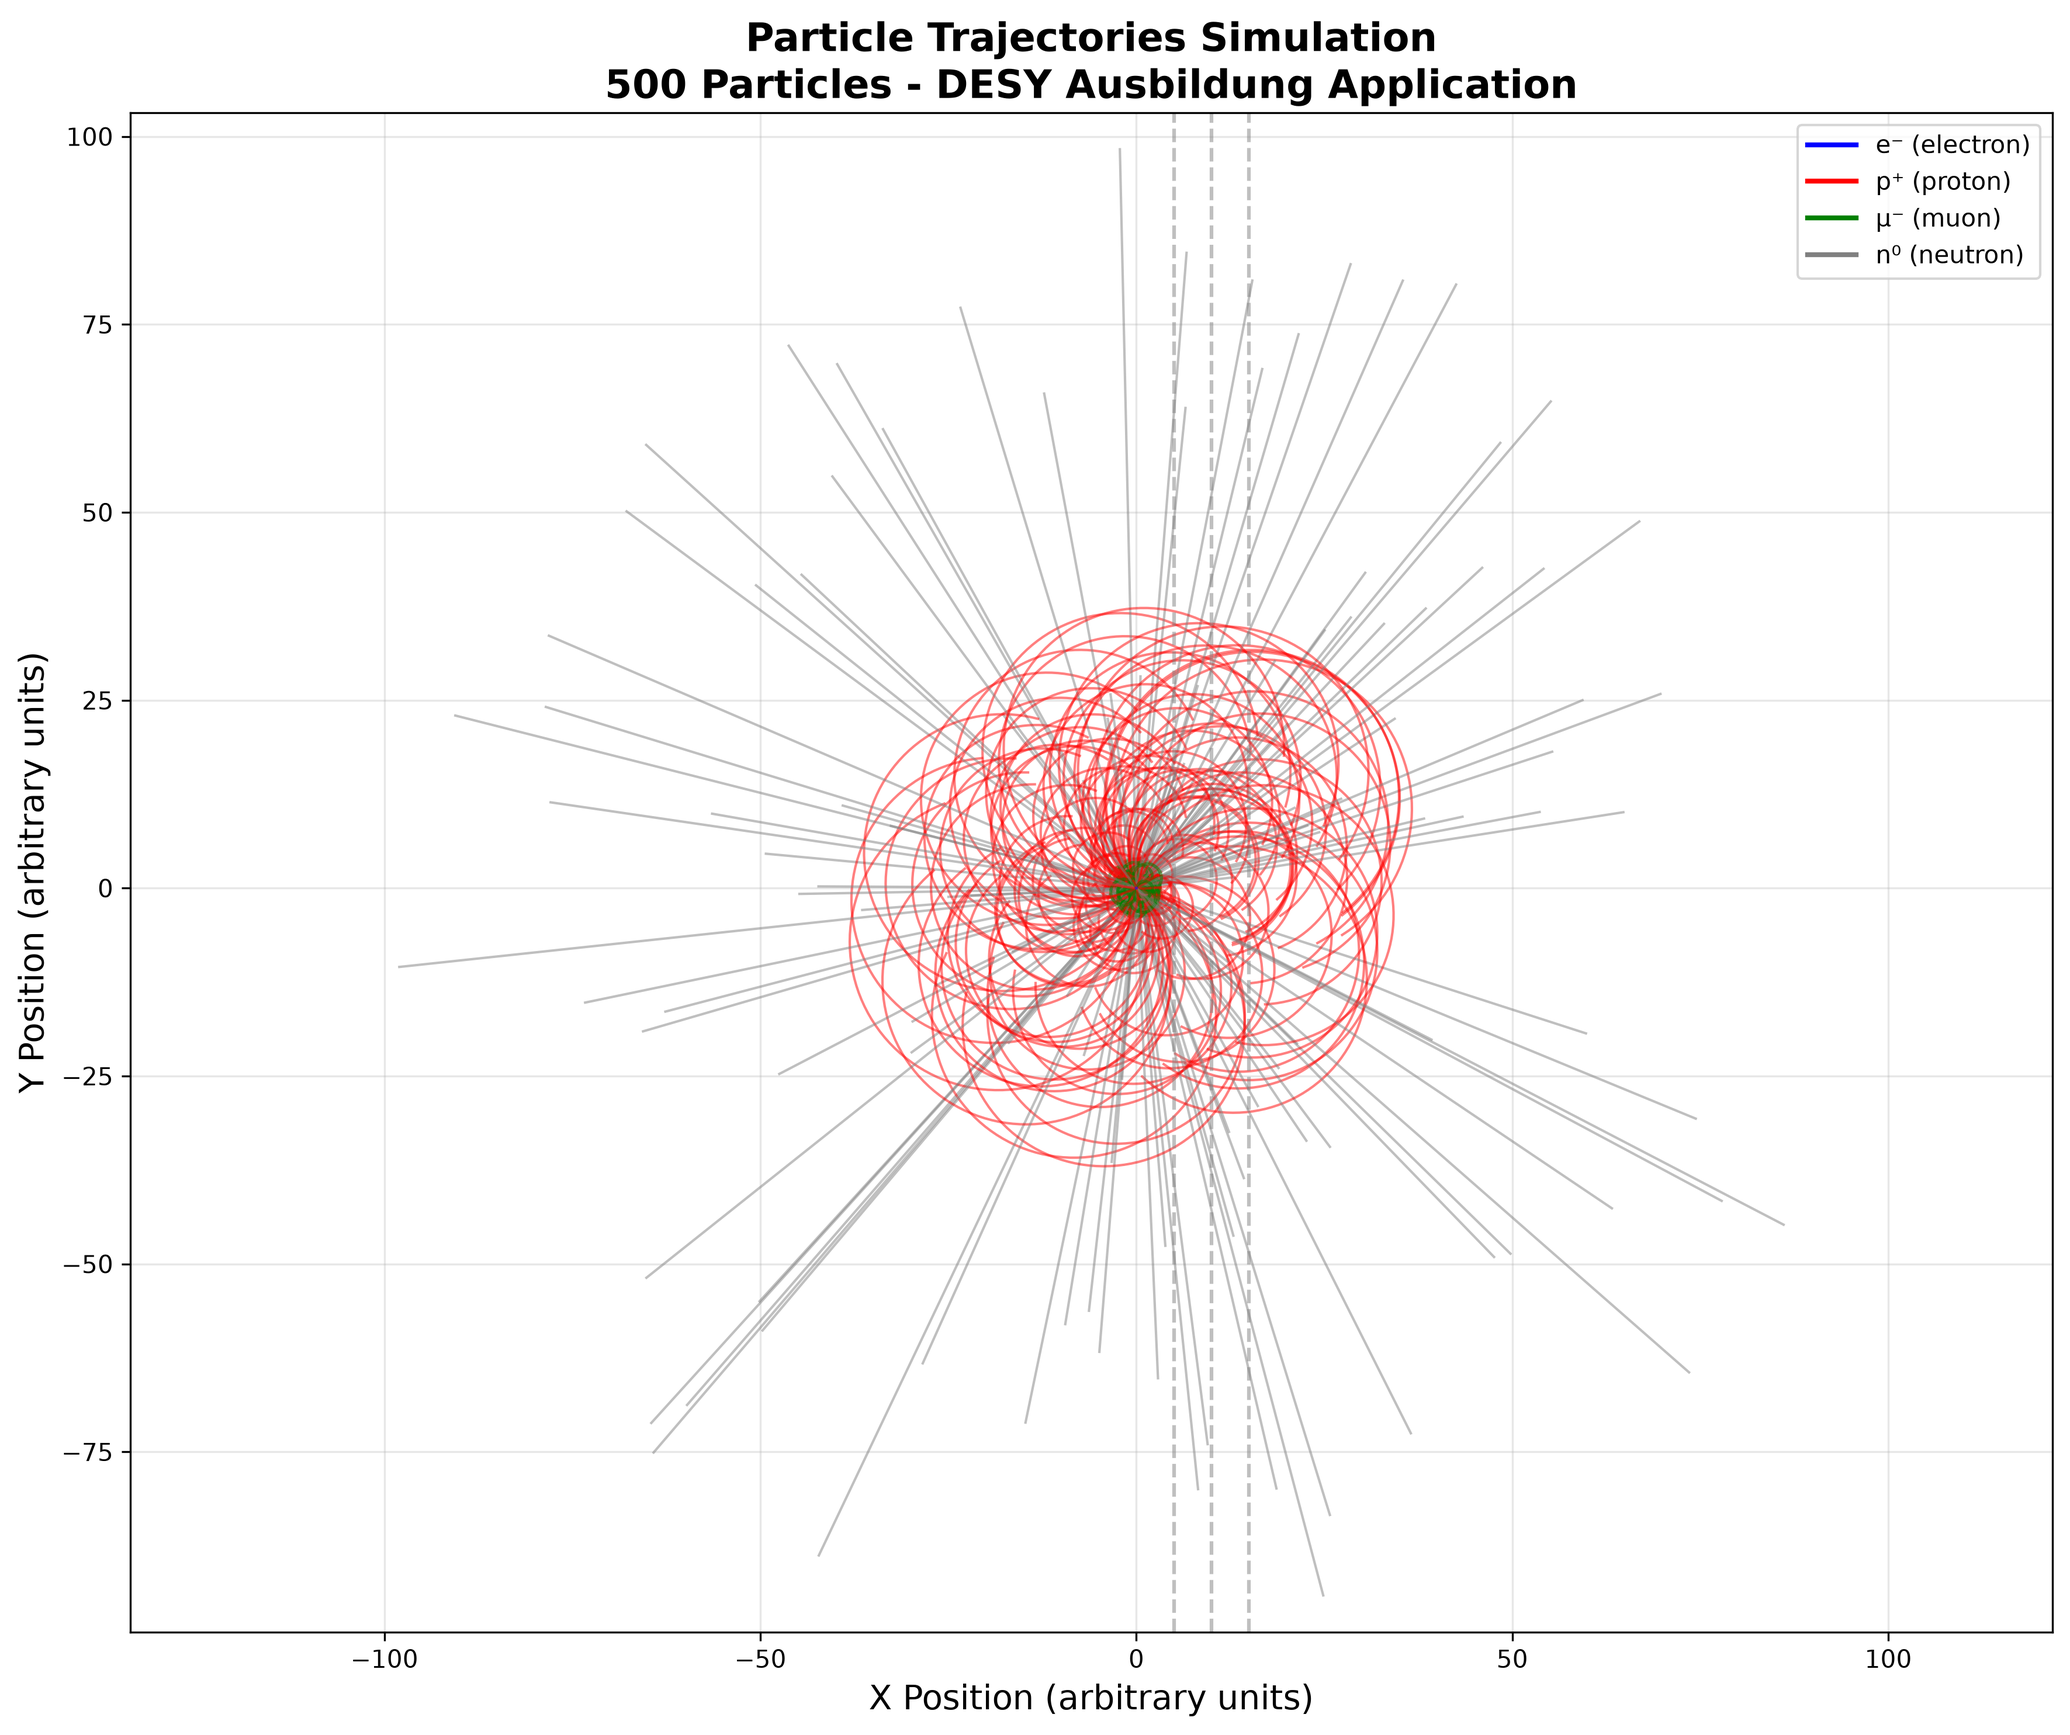
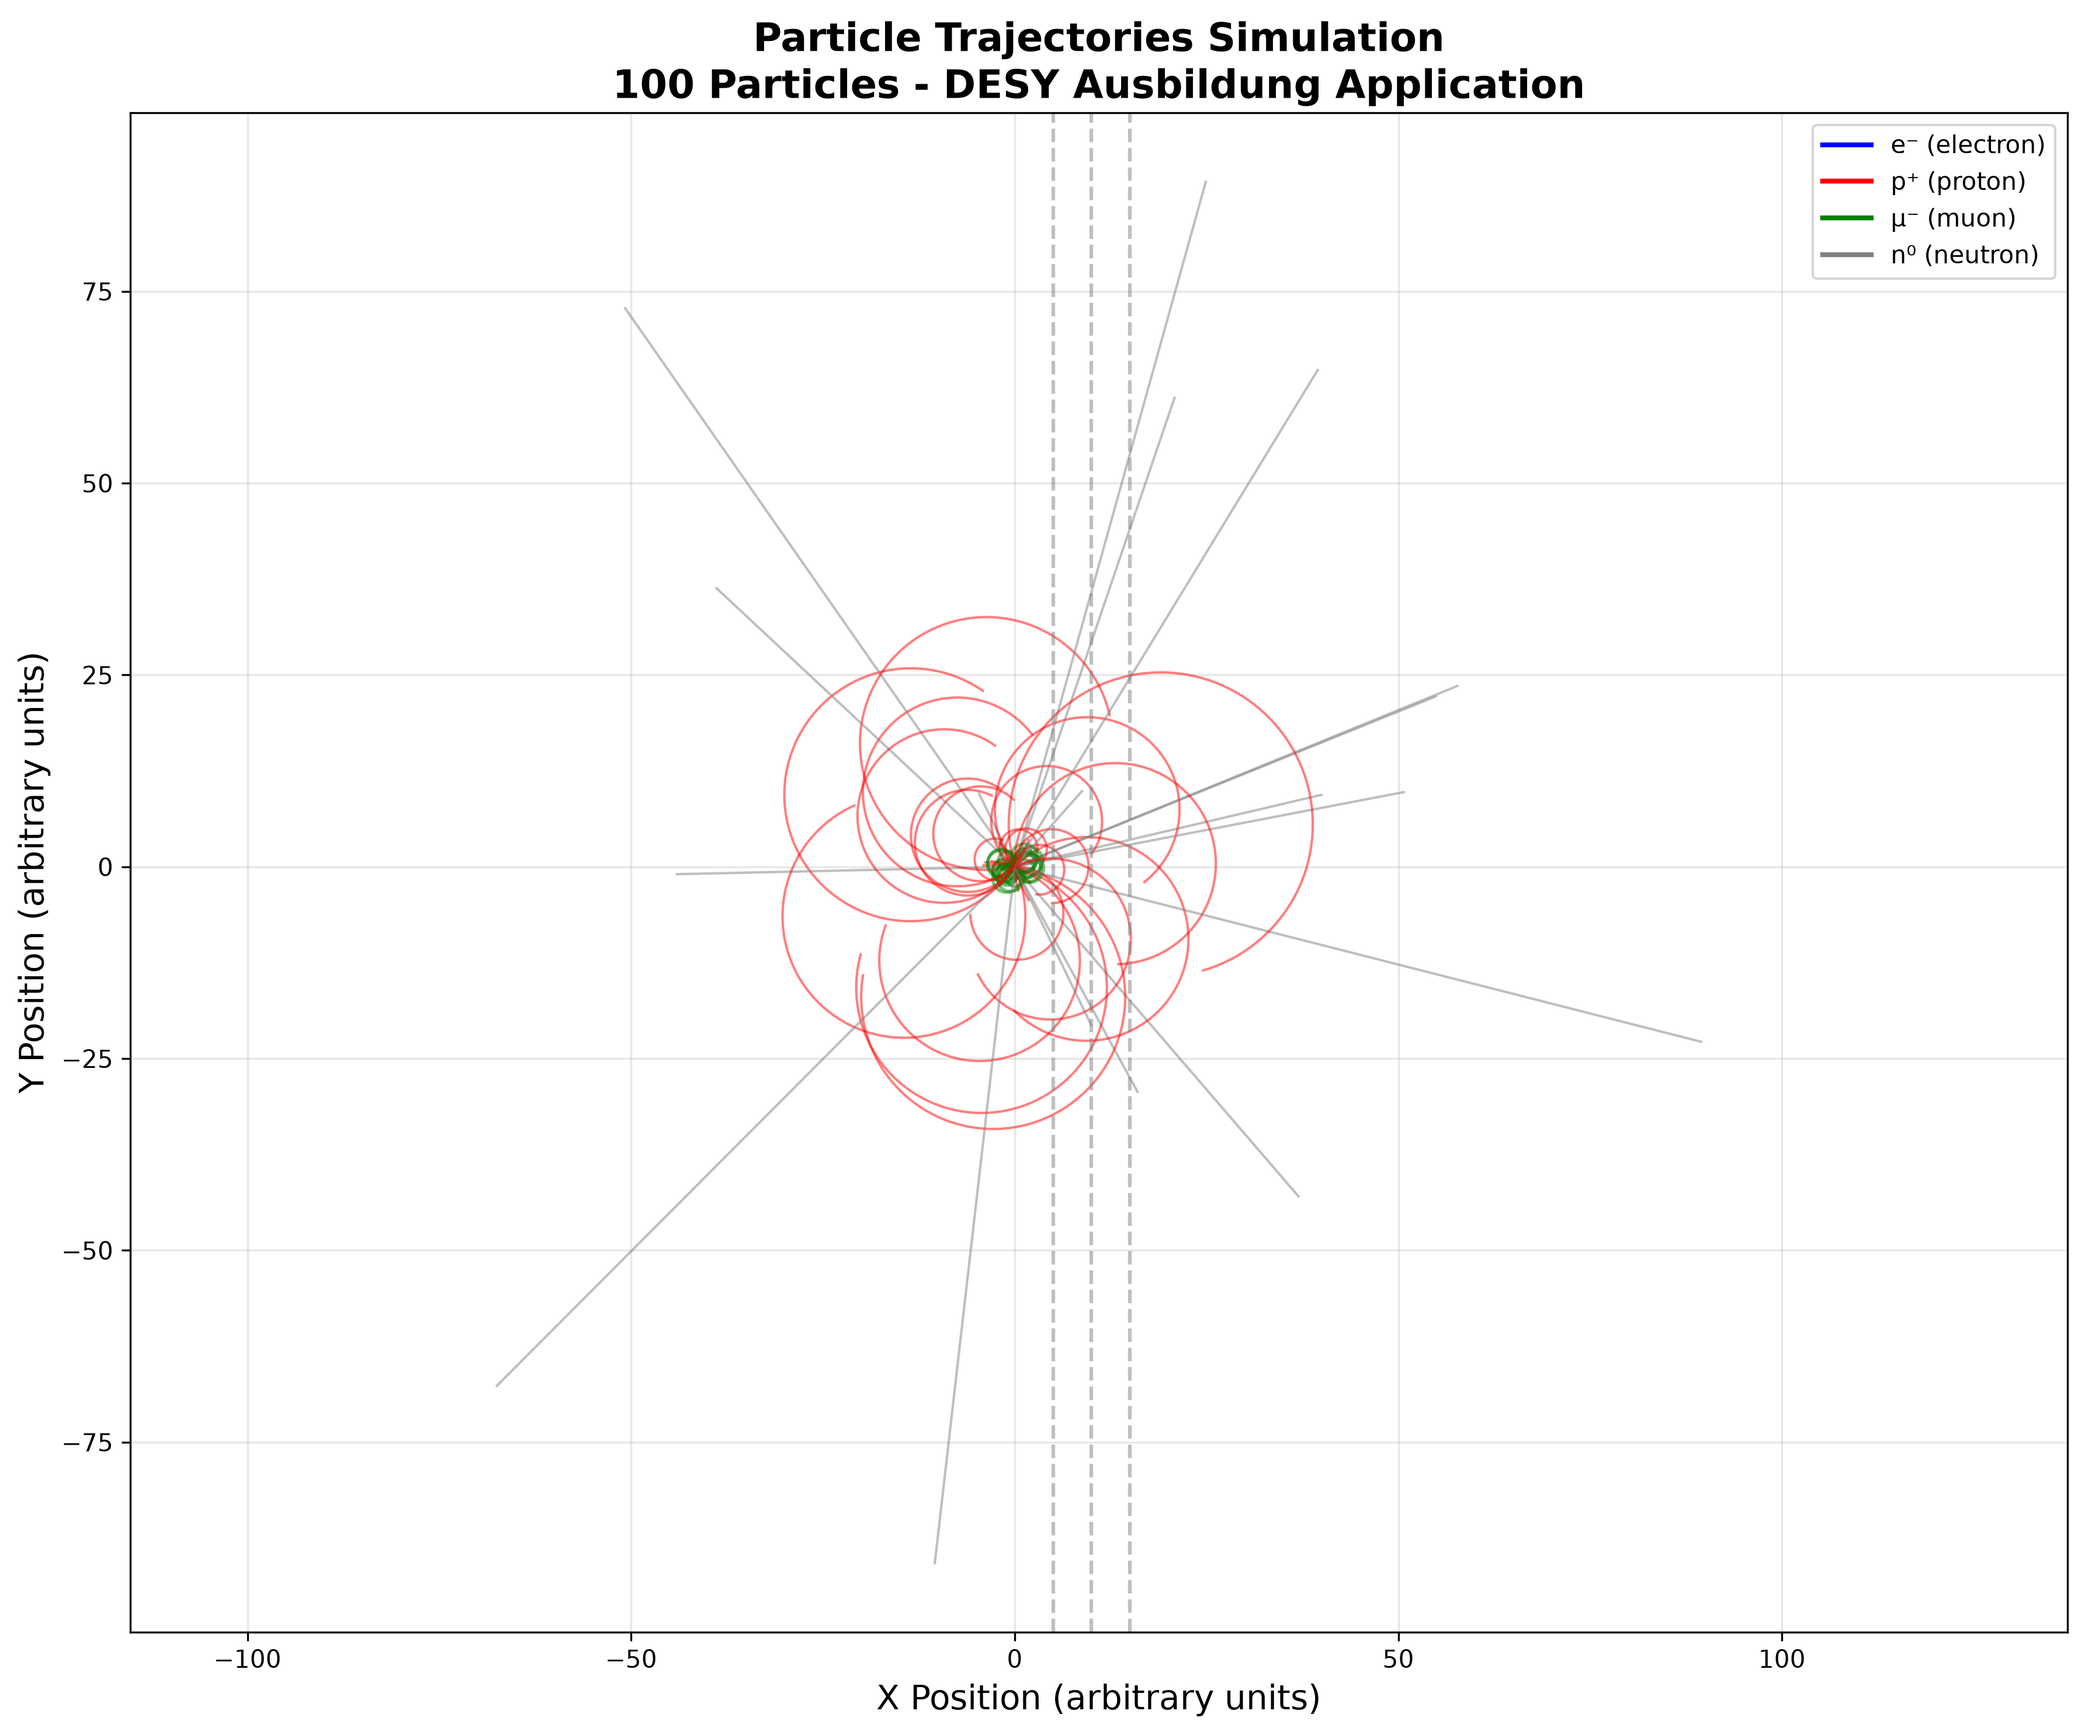
Add README, requirements.txt, and project documentation
- Added comprehensive README.md with physics explanation, installation instructions, and usage guide
- Added requirements.txt with dependencies (numpy, matplotlib)
- Project structure documented
- Ready for GitHub publication

diff --git a/gui.py b/gui.py
@@ -108,7 +108,7 @@ class ParticleSimulatorGUI:
             text="▶ Run Simulation",
             command=self.run_simulation,
             bg="#4CAF50",
-            fg="white",
+            fg="black",
             font=("Helvetica", 12, "bold"),
             padx=20,
             pady=10
@@ -121,7 +121,7 @@ class ParticleSimulatorGUI:
             text="📊 Plot 2D",
             command=self.plot_2d,
             bg="#2196F3",
-            fg="white",
+            fg="black",
             font=("Helvetica", 12),
             padx=15,
             pady=10
@@ -134,7 +134,7 @@ class ParticleSimulatorGUI:
             text="🎯 Plot 3D",
             command=self.plot_3d,
             bg="#FF9800",
-            fg="white",
+            fg="black",
             font=("Helvetica", 12),
             padx=15,
             pady=10
@@ -147,7 +147,7 @@ class ParticleSimulatorGUI:
             text="🎬 Animate",
             command=self.animate,
             bg="#9C27B0",
-            fg="white",
+            fg="black",
             font=("Helvetica", 12),
             padx=15,
             pady=10
@@ -166,7 +166,7 @@ class ParticleSimulatorGUI:
             status_frame,
             text="Ready to simulate",
             font=("Helvetica", 11),
-            fg="gray",
+            fg="white",
             pady=10
         )
         self.status_label.pack()

diff --git a/README.md b/README.md
@@ -1,80 +1,200 @@
-# Particle Track Simulator
+# 🔬 Particle Track Simulator
 
-A Python-based simulation of particle trajectories in a detector system, created for a DESY Ausbildung application.
+A particle trajectory simulator in magnetic fields, developed for the **DESY Ausbildung** application (Deutsches Elektronen-Synchrotron).
 
-## Description
+![Python](https://img.shields.io/badge/Python-3.8+-blue.svg)
+![License](https://img.shields.io/badge/License-MIT-green.svg)
 
-This program simulates particles emerging from a collision point and traveling through detector layers. It demonstrates basic concepts of particle physics, data analysis, and scientific visualization.
+---
 
-### Physics Background
+## 📖 Description
 
-The simulation models:
-- Particle generation with random angles and velocities
-- Linear trajectory propagation (x = v·t·cos(θ), y = v·t·sin(θ))
-- Detector planes that register particle crossings
-- Statistical analysis of detected hits
+This project simulates the motion of charged particles (electrons, protons, muons) under the influence of a **magnetic field**, applying the **Lorentz force**. Charged particles curve in circular trajectories, while neutral particles (neutrons) move in straight lines.
 
-### Features
+### Key Features:
+- ✅ Real physics based on Lorentz force: \( \vec{F} = q(\vec{v} \times \vec{B}) \)
+- ✅ 4 particle types with unique properties (charge, mass, color)
+- ✅ 2D and 3D trajectory visualization
+- ✅ Particle motion animation
+- ✅ Hit detection on virtual detectors
+- ✅ Statistics and data analysis
+- ✅ Interactive graphical interface (GUI)
 
-- Generate random particles with different properties
-- Simulate particle trajectories through detector layers
-- Detect and record particle hits on detectors
-- Calculate statistics (mean, std, min, max)
-- Visualize trajectories with matplotlib
-- Save results to CSV file
+---
 
-## Technologies
+## 🎬 Demo
 
-- **Python 3.14**
-- **NumPy** - Numerical computations
-- **Matplotlib** - Data visualization
+### 2D Visualization
+![2D Plot](output/tracks.png)
 
-## Project Structure
+### 3D Visualization
+![3D Plot](output/tracks_3d.png)
 
-The project has the following structure:
+### Animation
+![Animation](output/animation.gif)
 
-- `main.py` - Main simulation code with all functions
-- `functions.py` - Helper functions (optional, for future expansion)
-- `README.md` - This file (project documentation)
-- `output/` - Folder for generated outputs
-  - `tracks.png` - Trajectory visualization (saved automatically)
-  - `data.csv` - Simulation data (saved automatically)
+---
 
-## Usage
+## ⚙ Installation
 
-Run the simulation:
+### Requirements:
+- Python 3.8 or higher
+- pip (Python package manager)
+
+### Steps:
+
+1. **Clone this repository:**
+```bash
+git clone [https://github.com/aledelriob/particle-track-simulator.git](https://github.com/aledelriob/particle-track-simulator.git)
+cd particle-track-simulator
+```
+
+2. **Install dependencies:**
+```bash
+pip install numpy matplotlib
+```
+
+3. **Run the simulator:**
 ```bash
 python main.py
 ```
 
-The program will:
-1. Generate 50 particles with random trajectories
-2. Calculate positions at 100 time steps
-3. Detect hits on 3 detector planes
-4. Calculate statistics for each detector
-5. Save visualization to `output/tracks.png`
-6. Save data to `output/data.csv`
+4. **Or run the GUI:**
+```bash
+python gui.py
+```
 
-## Output
+---
 
-### Trajectory Plot
-The program generates a plot showing all particle trajectories with detector planes marked as vertical dashed lines.
+## 🚀 Usage
 
-### Data File
-A CSV file containing:
-- Detector statistics (hits, mean position, standard deviation)
-- Sample trajectory data (first 5 particles, first 10 time points)
+### Option 1: Command Line
 
-## Author
+Run `main.py` to execute the simulation with default configuration:
 
-**Alejandra del Rio B.**  
-Application for DESY Ausbildung 2027  
-Fachinformatikerin für Anwendungsentwicklung
+```bash
+python main.py
+```
 
-## License
+**Output:**
+- `output/tracks.png` - 2D plot
+- `output/tracks_3d.png` - 3D plot
+- `output/animation.gif` - Animation
+- `output/data.csv` - Simulation data
 
-This project is open source and available for educational purposes.
+### Option 2: Graphical Interface
 
-## Acknowledgments
+Run `gui.py` to open the interactive interface:
 
-This project was created as part of my application for an Ausbildung position at DESY (Deutsches Elektronen-Synchrotron) in Hamburg, Germany.
+```bash
+python gui.py
+```
+
+**You can:**
+- Configure number of particles
+- Adjust magnetic field strength
+- Modify detector positions
+- Run simulation
+- View 2D/3D plots
+- Create animation
+- See real-time statistics
+
+---
+
+## 🔬 Physics: Lorentz Force
+
+The **Lorentz force** describes the force experienced by a charged particle in a magnetic field:
+
+\[
+\vec{F} = q(\vec{v} \times \vec{B})
+\]
+
+Where:
+- \( q \) = particle charge
+- \( \vec{v} \) = particle velocity
+- \( \vec{B} \) = magnetic field
+
+### Curvature Radius:
+
+\[
+r = \frac{m \cdot v}{|q| \cdot B}
+\]
+
+### Angular Frequency:
+
+\[
+\omega = \frac{|q| \cdot B}{m}
+\]
+
+**Consequences:**
+- Charged particles (+/-) curve in **circles**
+- Neutral particles (0) move in **straight lines**
+- Radius depends on mass, velocity, charge, and magnetic field
+
+---
+
+## 🎨 Particle Types
+
+| Particle | Symbol | Charge | Mass | Color |
+|----------|--------|--------|------|-------|
+| Electron | e⁻ | -1 | 0.0005 | Blue |
+| Proton | p⁺ | +1 | 1.0 | Red |
+| Muon | μ⁻ | -1 | 0.1 | Green |
+| Neutron | n⁰ | 0 | 1.0 | Gray |
+
+---
+
+## 📁 Project Structure
+
+
+particle-track-simulator/
+│
+├── main.py # Main simulator
+├── gui.py # Graphical interface
+├── README.md # This file
+│
+├── output/ # Simulation results
+│ ├── tracks.png # 2D plot
+│ ├── tracks_3d.png # 3D plot
+│ ├── animation.gif # Animation
+│ └── data.csv # Exported data
+│
+└── requirements.txt # Python dependencies
+
+---
+
+## 🛠 Technologies
+
+- **Python 3.8+** - Programming language
+- **NumPy** - Numerical computing
+- **Matplotlib** - Visualization and animation
+- **Tkinter** - Graphical interface
+
+---
+
+## 👤 Author
+
+**Alejandra del Río B.**
+
+Developed as a project for the **DESY Ausbildung** application (Deutsches Elektronen-Synchrotron), Hamburg, Germany.
+
+---
+
+## 📧 Contact
+
+- **Email:** [aledelrioba@gmail.com]
+- **GitHub:** [aledelriob]
+
+---
+
+## 📄 License
+
+This project is licensed under the MIT License.
+
+---
+
+<div align="center">
+
+**Made with ❤ for particle physics**
+
+</div>
